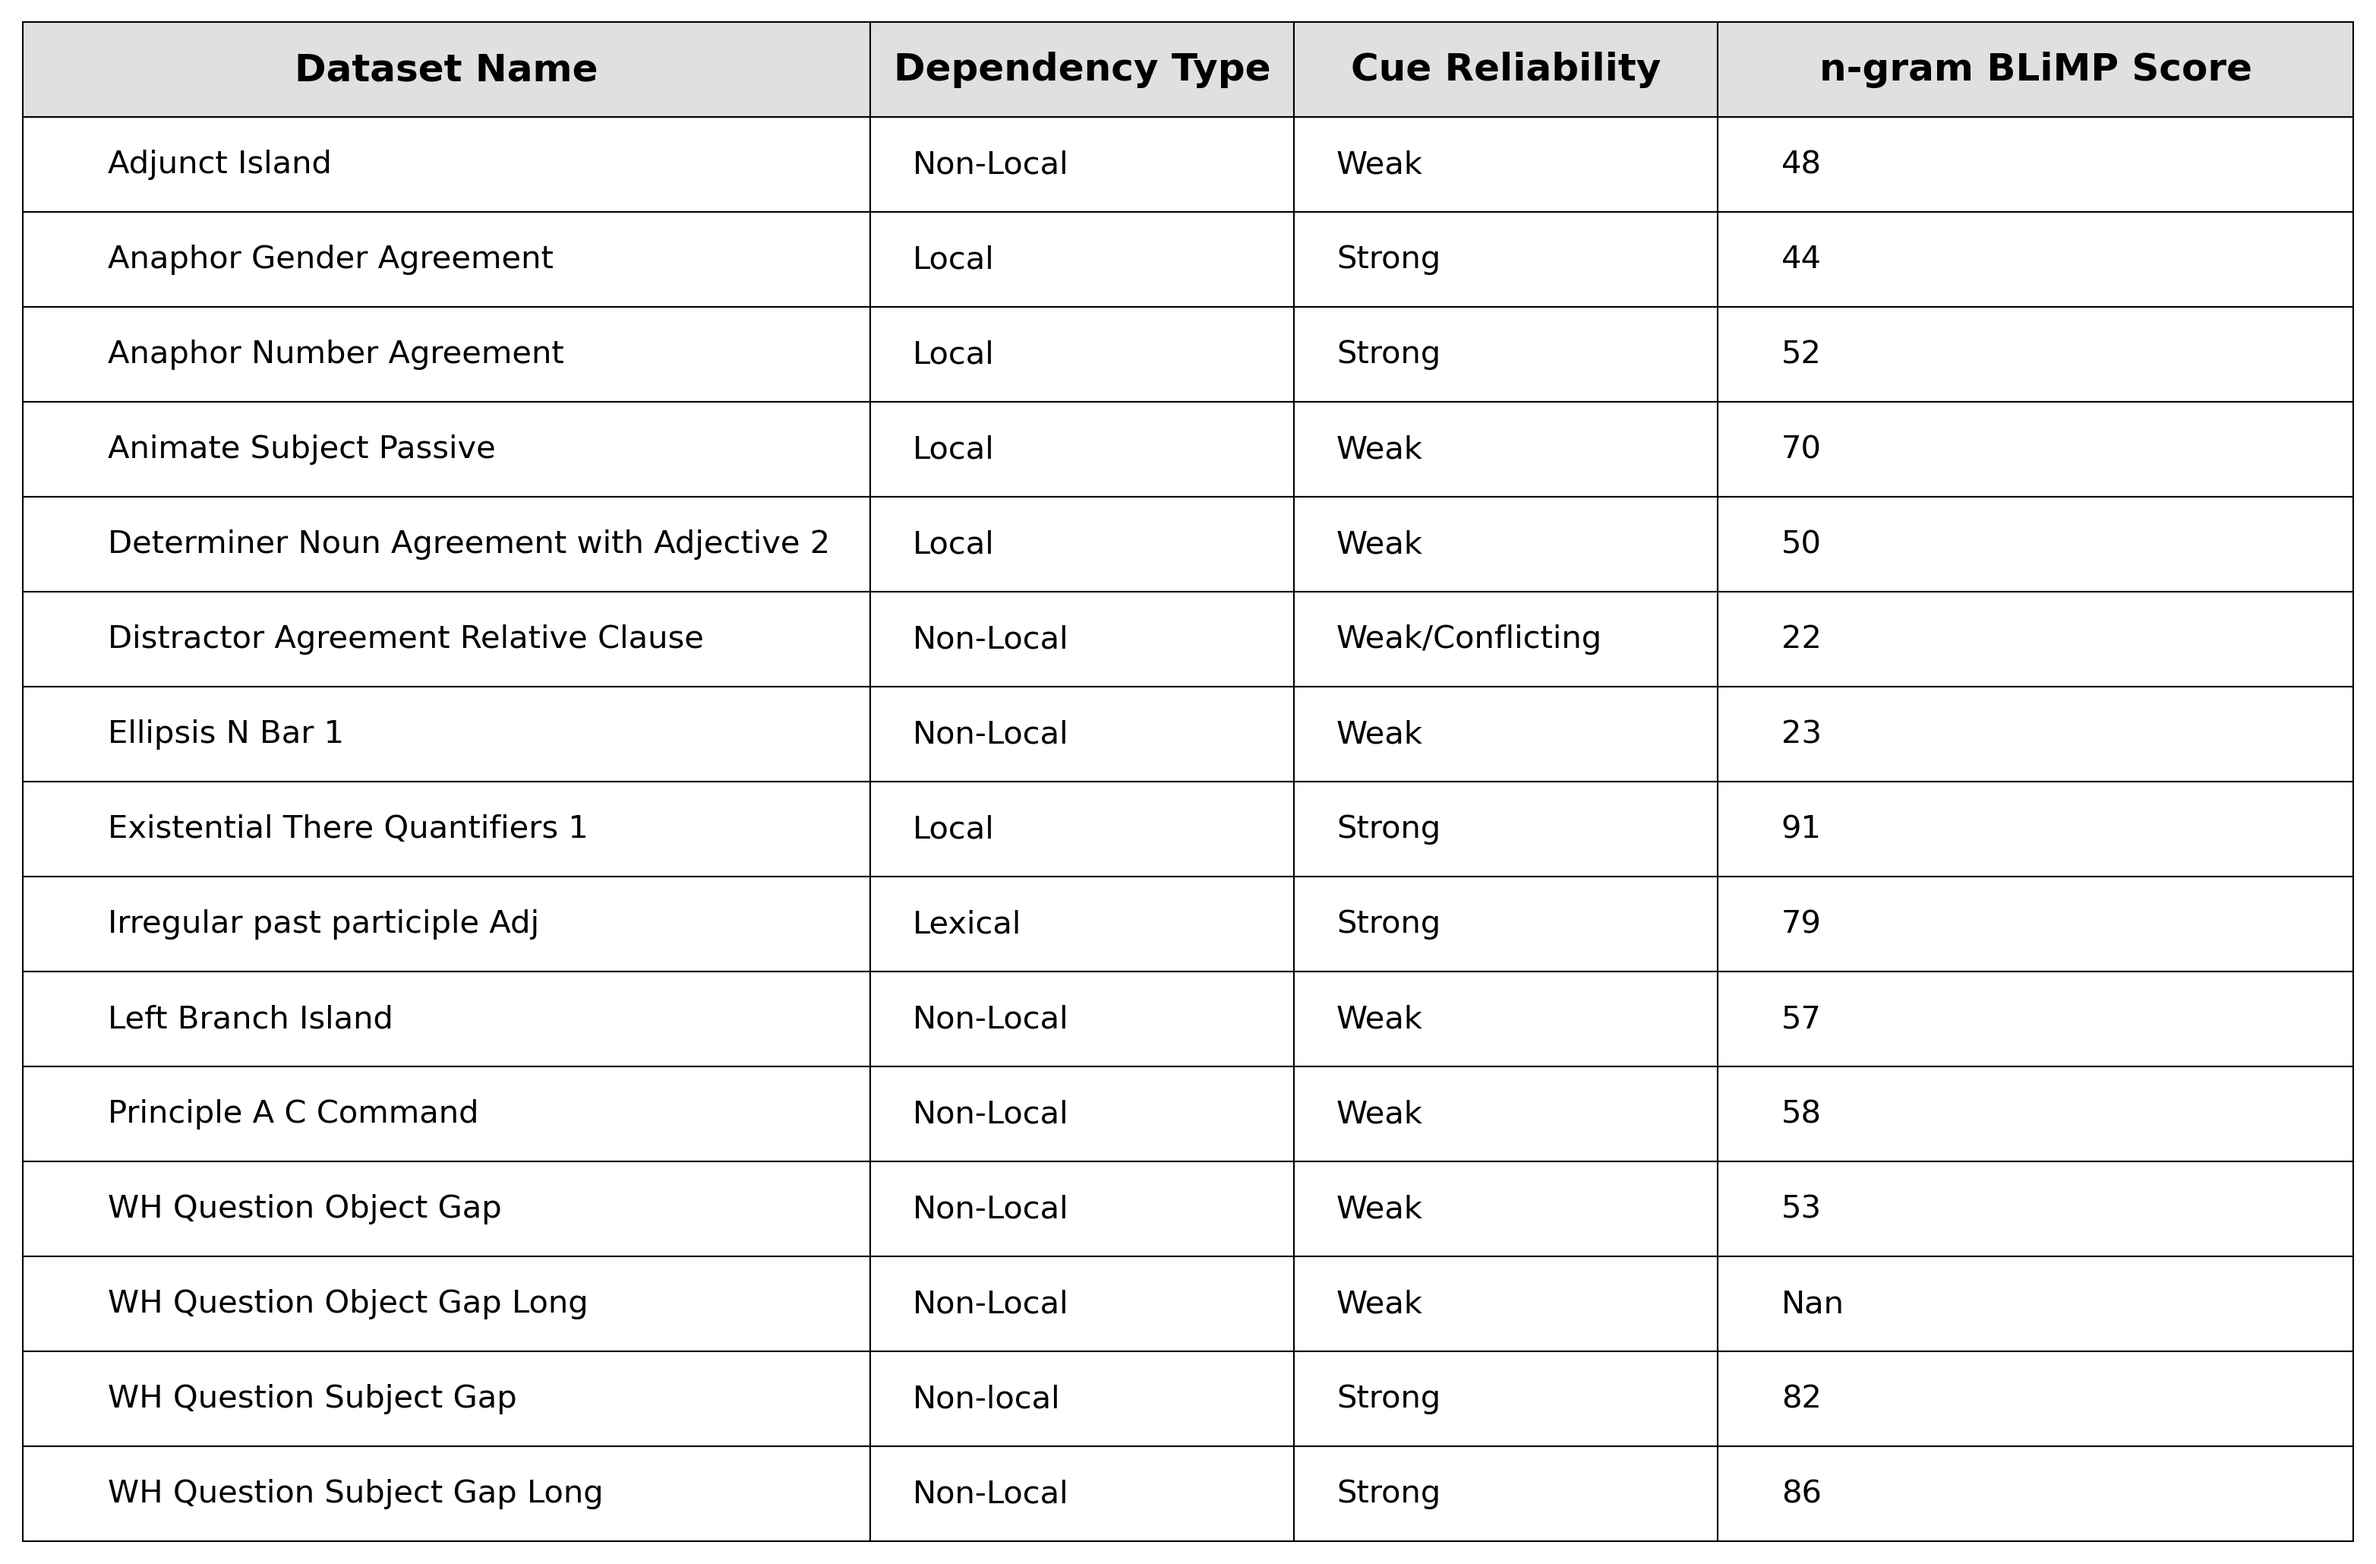
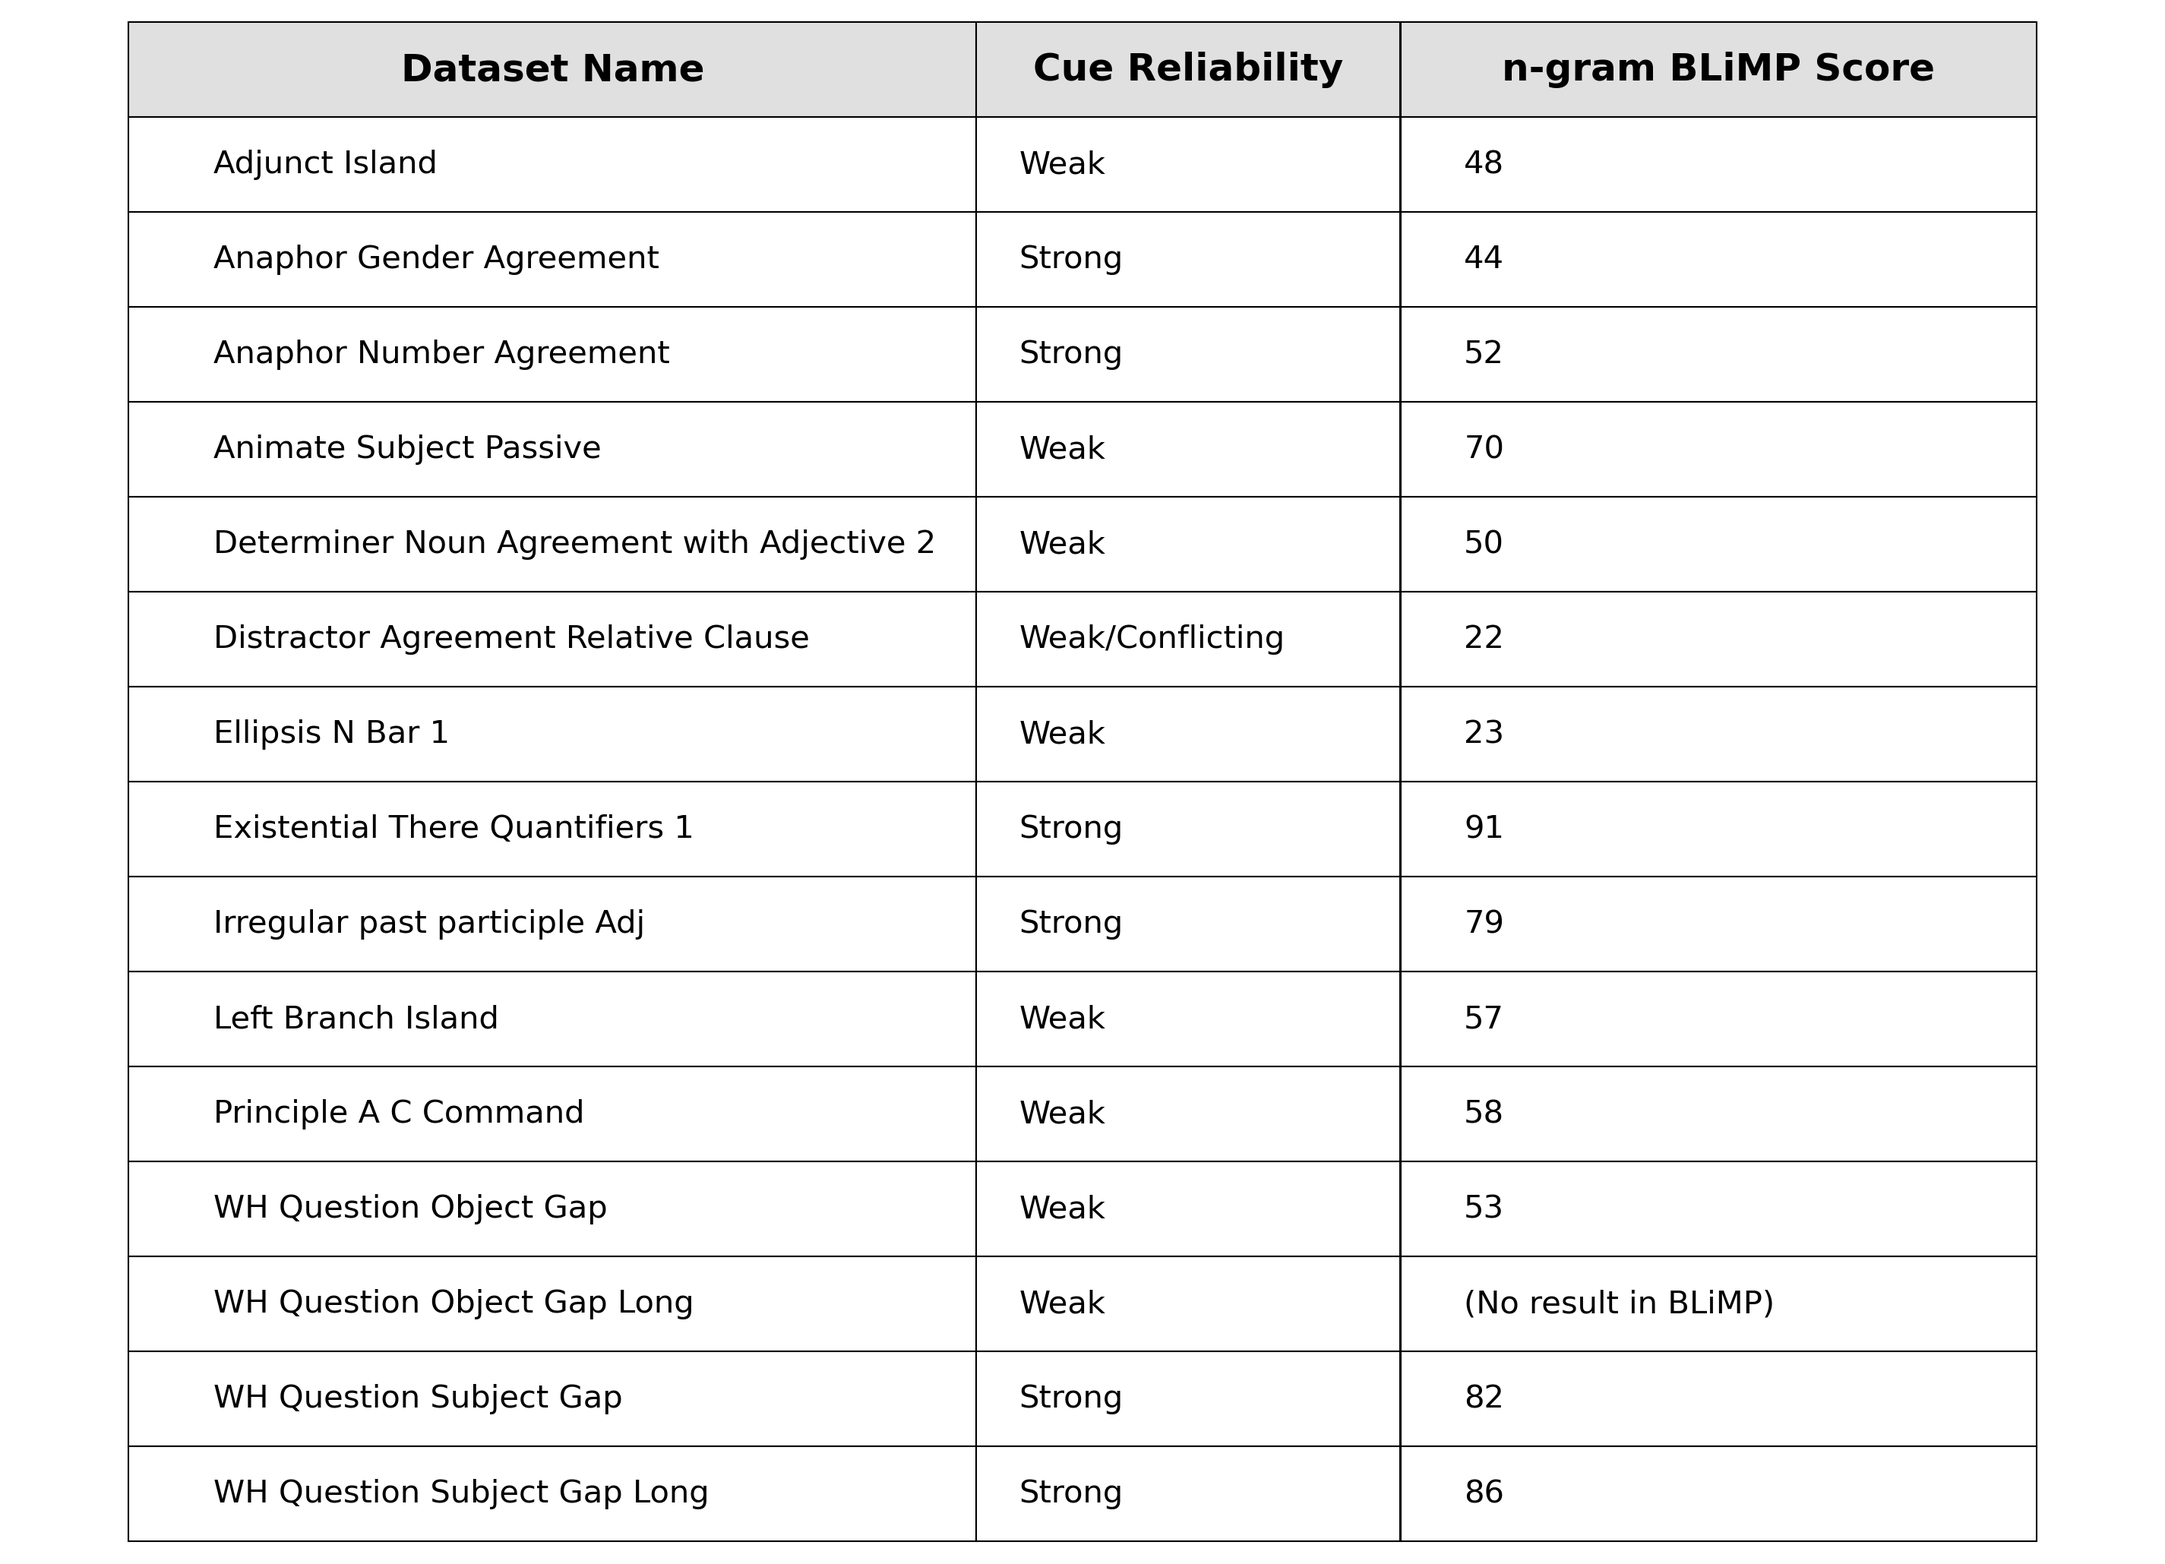
Remove dependency type in grammatical phenomena classification

diff --git a/data_generation/generation_projects/impossible_blimp/generate_grammatical_phenomena_table.py b/data_generation/generation_projects/impossible_blimp/generate_grammatical_phenomena_table.py
@@ -31,7 +31,7 @@ def generate_grammatical_phenomena_classification_table():
         colLabels=table_data.columns,
         cellLoc='left',
         loc='center',
-        colWidths=[0.4, 0.2, 0.2, 0.3]
+        colWidths=[0.4, 0.2, 0.3]
     )
 
     the_table.auto_set_font_size(False)
